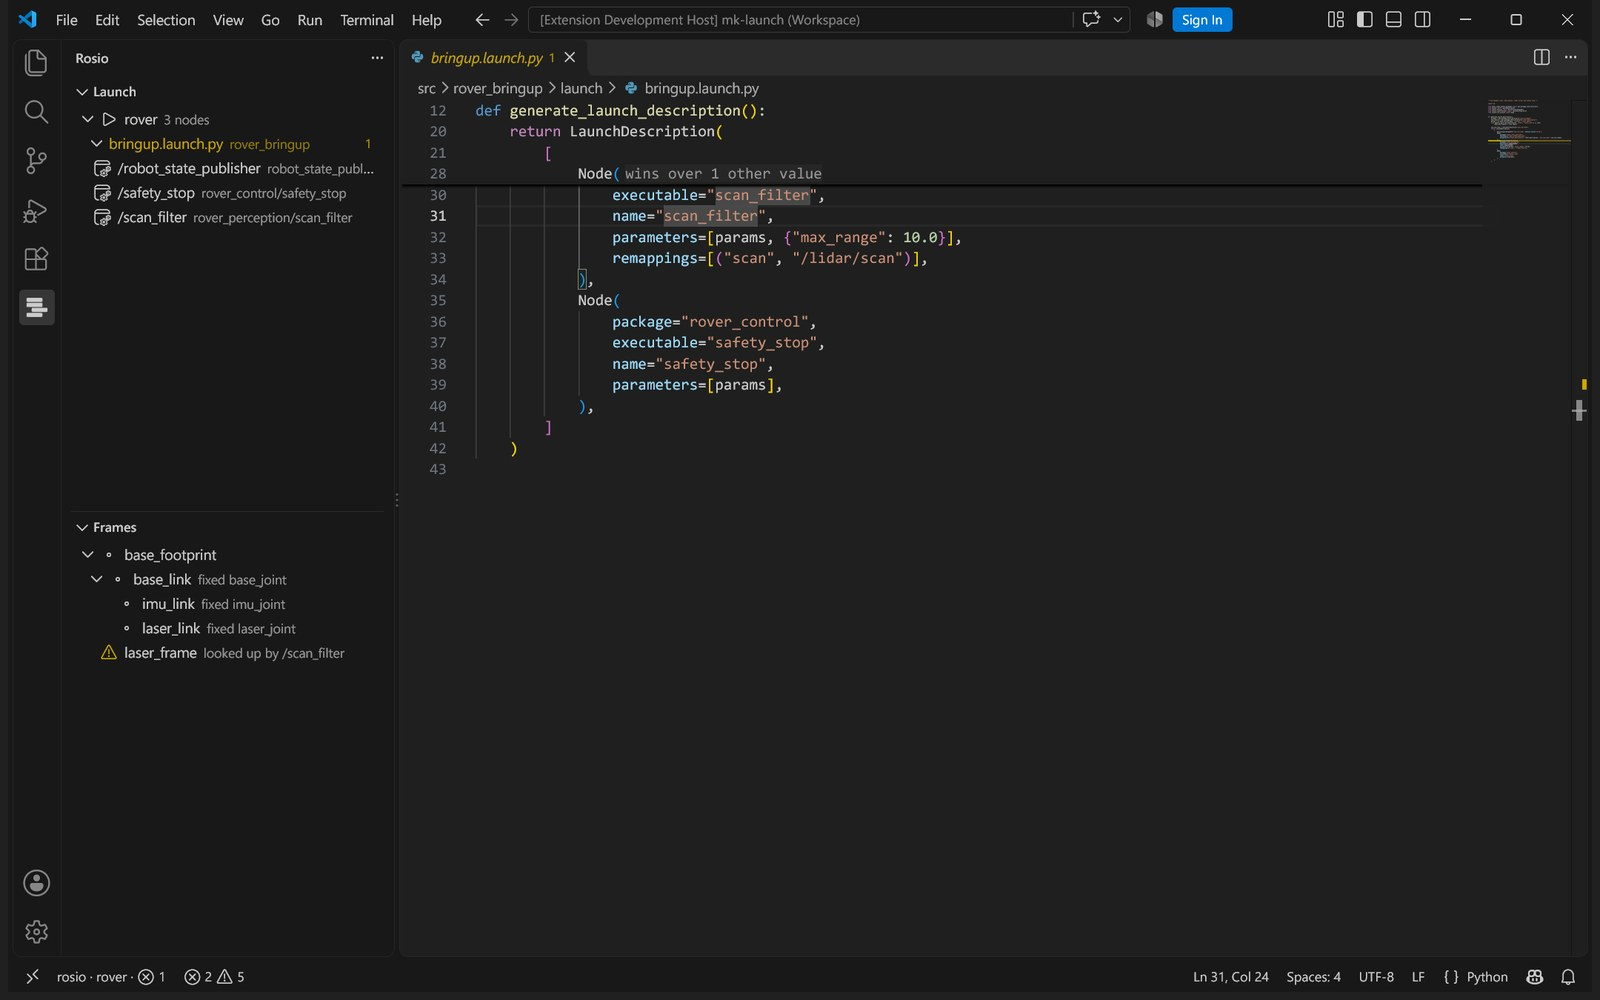
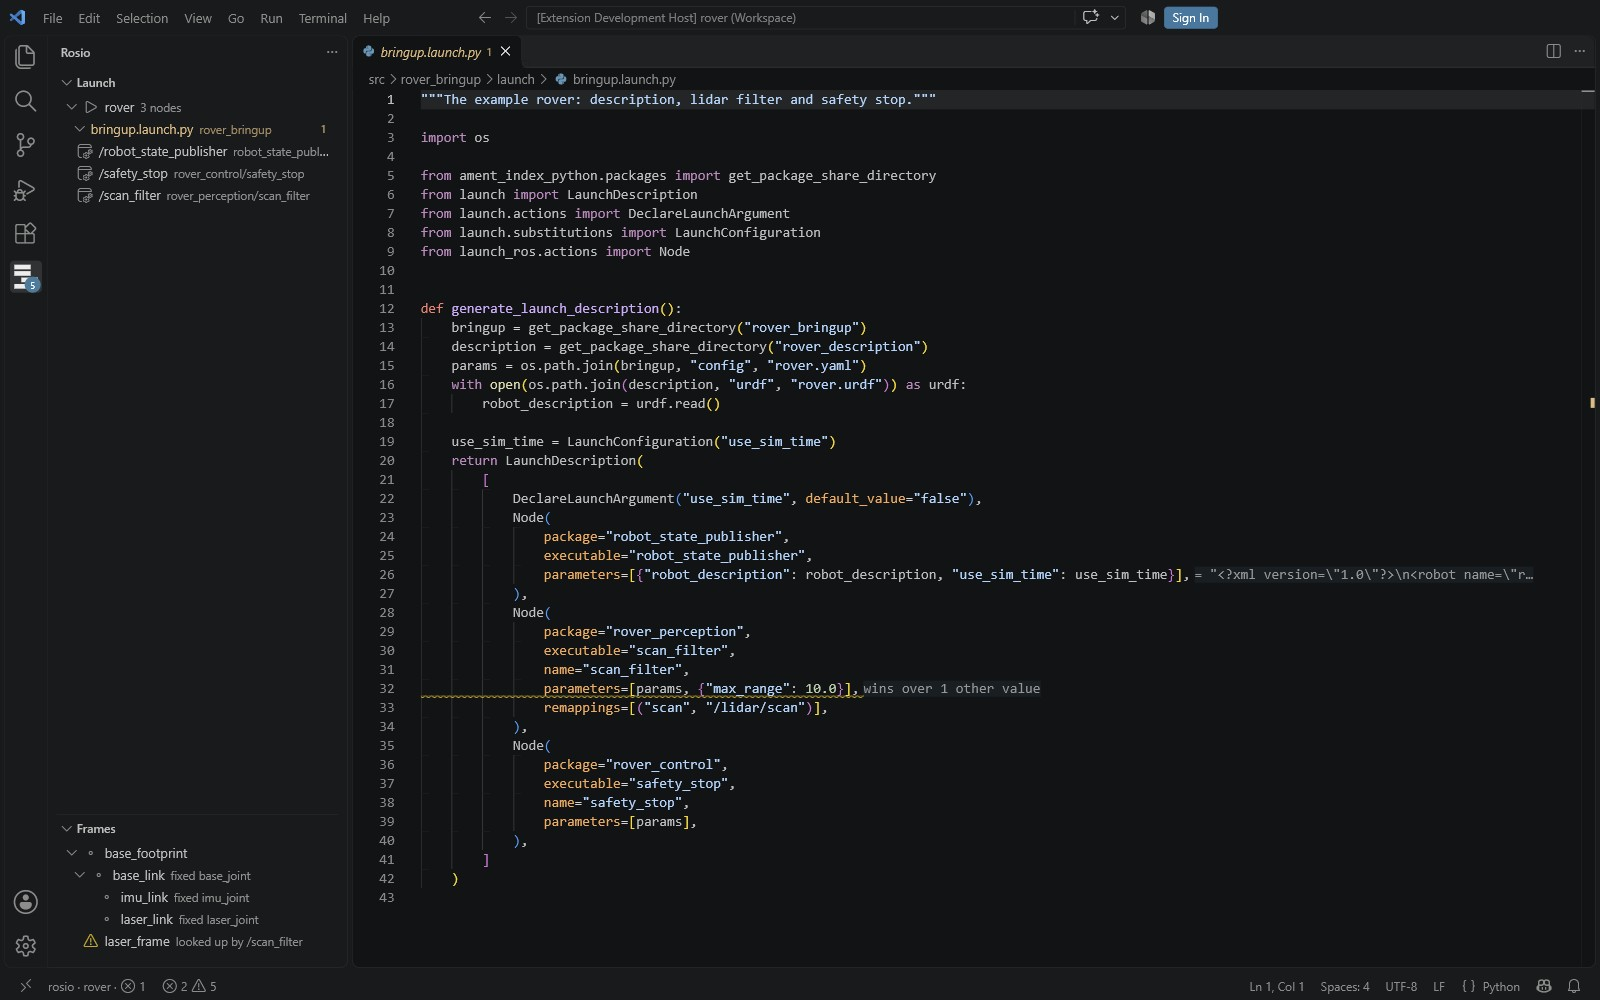
screenshots retaken on 0.2.0, the hover says what a name was read from

diff --git a/crates/rosio-lsp/src/hover.rs b/crates/rosio-lsp/src/hover.rs
@@ -263,11 +263,17 @@ fn stated_by(layers: &Value) -> String {
         .into_iter()
         .flatten()
         .filter_map(Value::as_str)
+        .map(|layer| match layer {
+            "declared" => "config",
+            "coded" => "code",
+            "observed" => "the live system",
+            "recorded" => "a bag",
+            other => other,
+        })
         .collect();
     match named.as_slice() {
         [] => "Known by name only.".into(),
-        [one] => format!("Stated by the {one} layer."),
-        many => format!("Stated by the {} layers.", many.join(", ")),
+        many => format!("Read from {}.", many.join(", ")),
     }
 }
 

diff --git a/editors/vscode/README.md b/editors/vscode/README.md
@@ -48,7 +48,7 @@ Show the robot model draws a URDF where its joints put each link, with the visua
 shapes and the STL and OBJ meshes it names. Click a link for its joint as the file states it, the line to
 edit, and its pose relative to any other frame of the model.
 
-![TurtleBot3 Burger in the robot model view](https://raw.githubusercontent.com/sa1ntsinner/rosio/main/docs/media/vscode-robot.jpg)
+![The example rover in the robot model view](https://raw.githubusercontent.com/sa1ntsinner/rosio/main/docs/media/vscode-robot.jpg)
 
 ## Also
 
